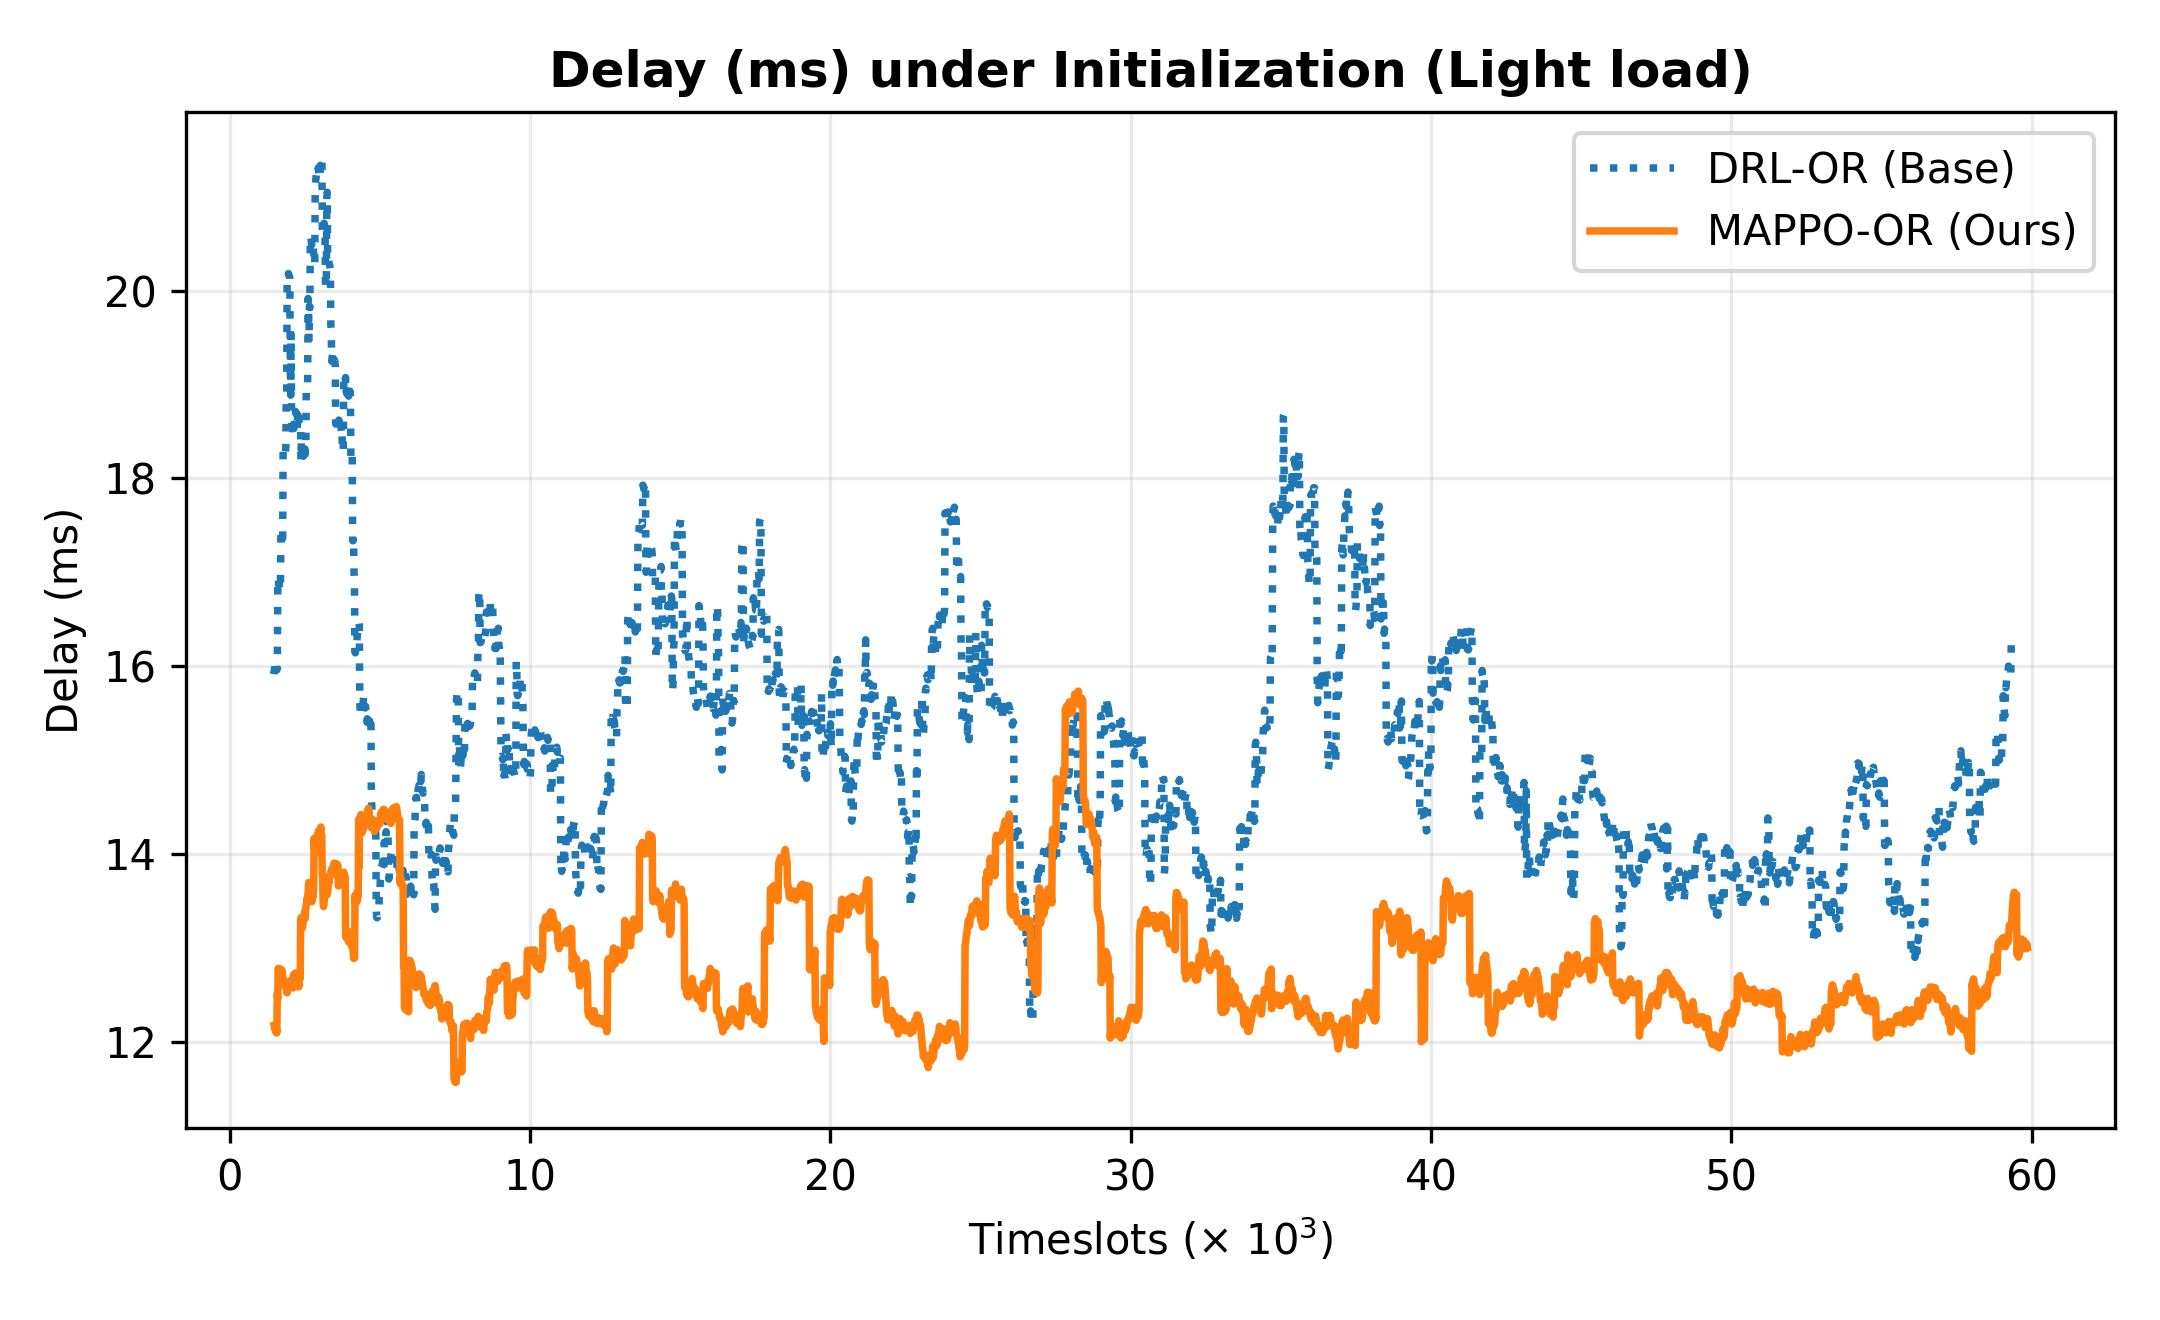
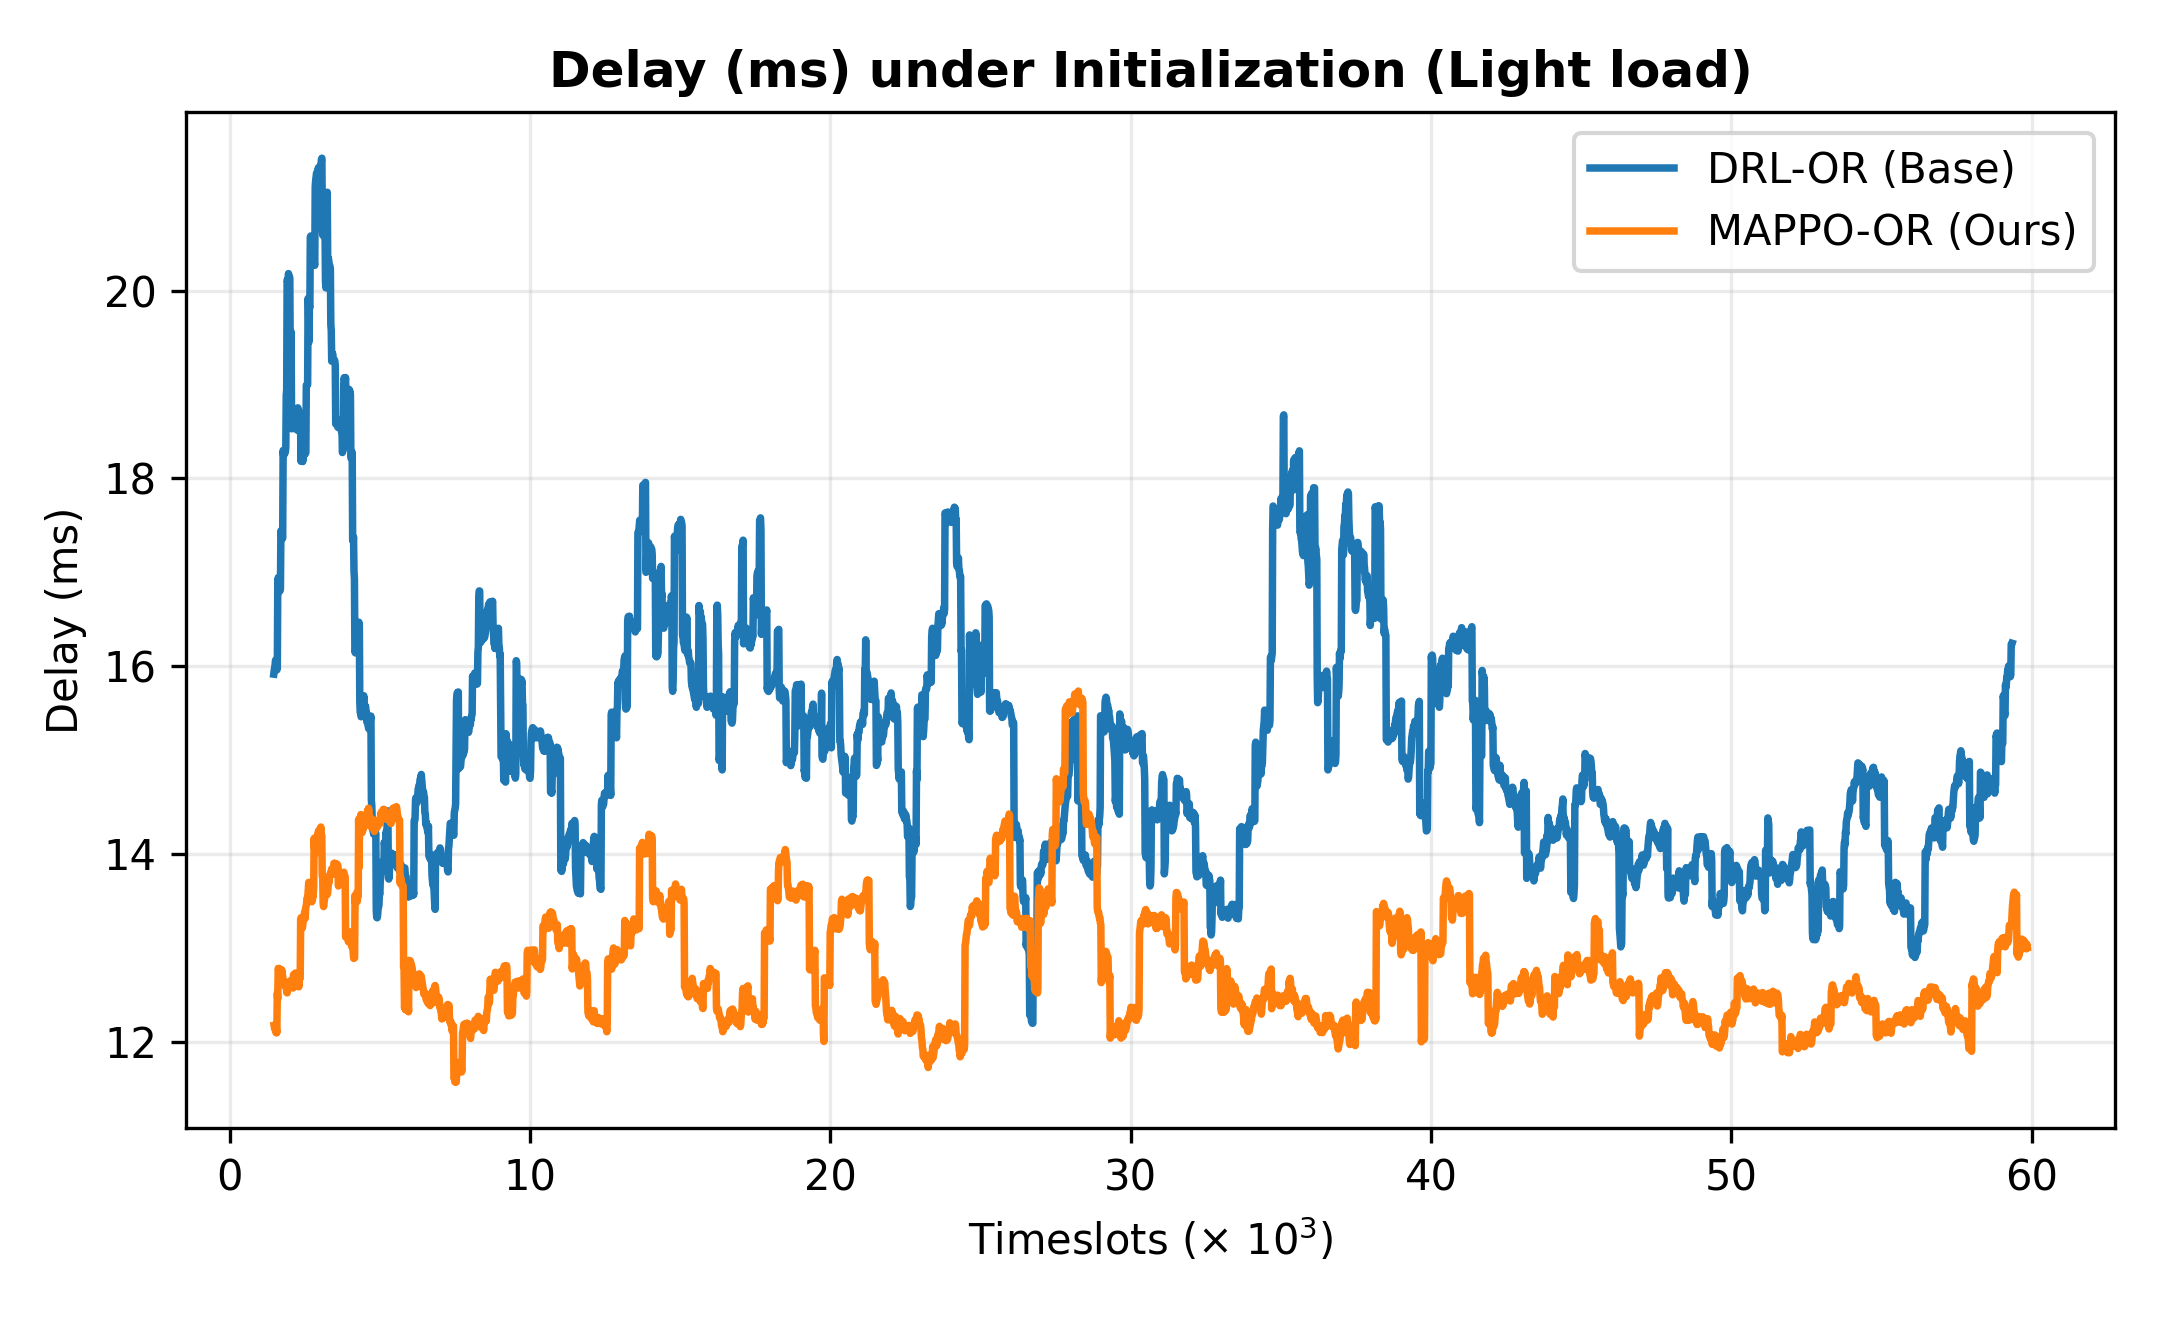
fix linestyle

diff --git a/fignew.py b/fignew.py
@@ -146,7 +146,7 @@ METHOD_STYLES = {
     "LBR": {"linestyle": "-.", "linewidth": 1.5},
     "WP": {"linestyle": "-.", "linewidth": 1.5},
     "QoSR": {"linestyle": (0, (3, 1, 1, 1)), "linewidth": 1.5},
-    "DRL-OR": {"linestyle": ":", "linewidth": 1.8},
+    "DRL-OR": {"linestyle": "-", "linewidth": 1.8},
     "PPO": {"linestyle": ":", "linewidth": 1.8},
     "MAPPO-OR": {"linestyle": "-", "linewidth": 1.8},
     "MAPPO": {"linestyle": "-", "linewidth": 1.8},
